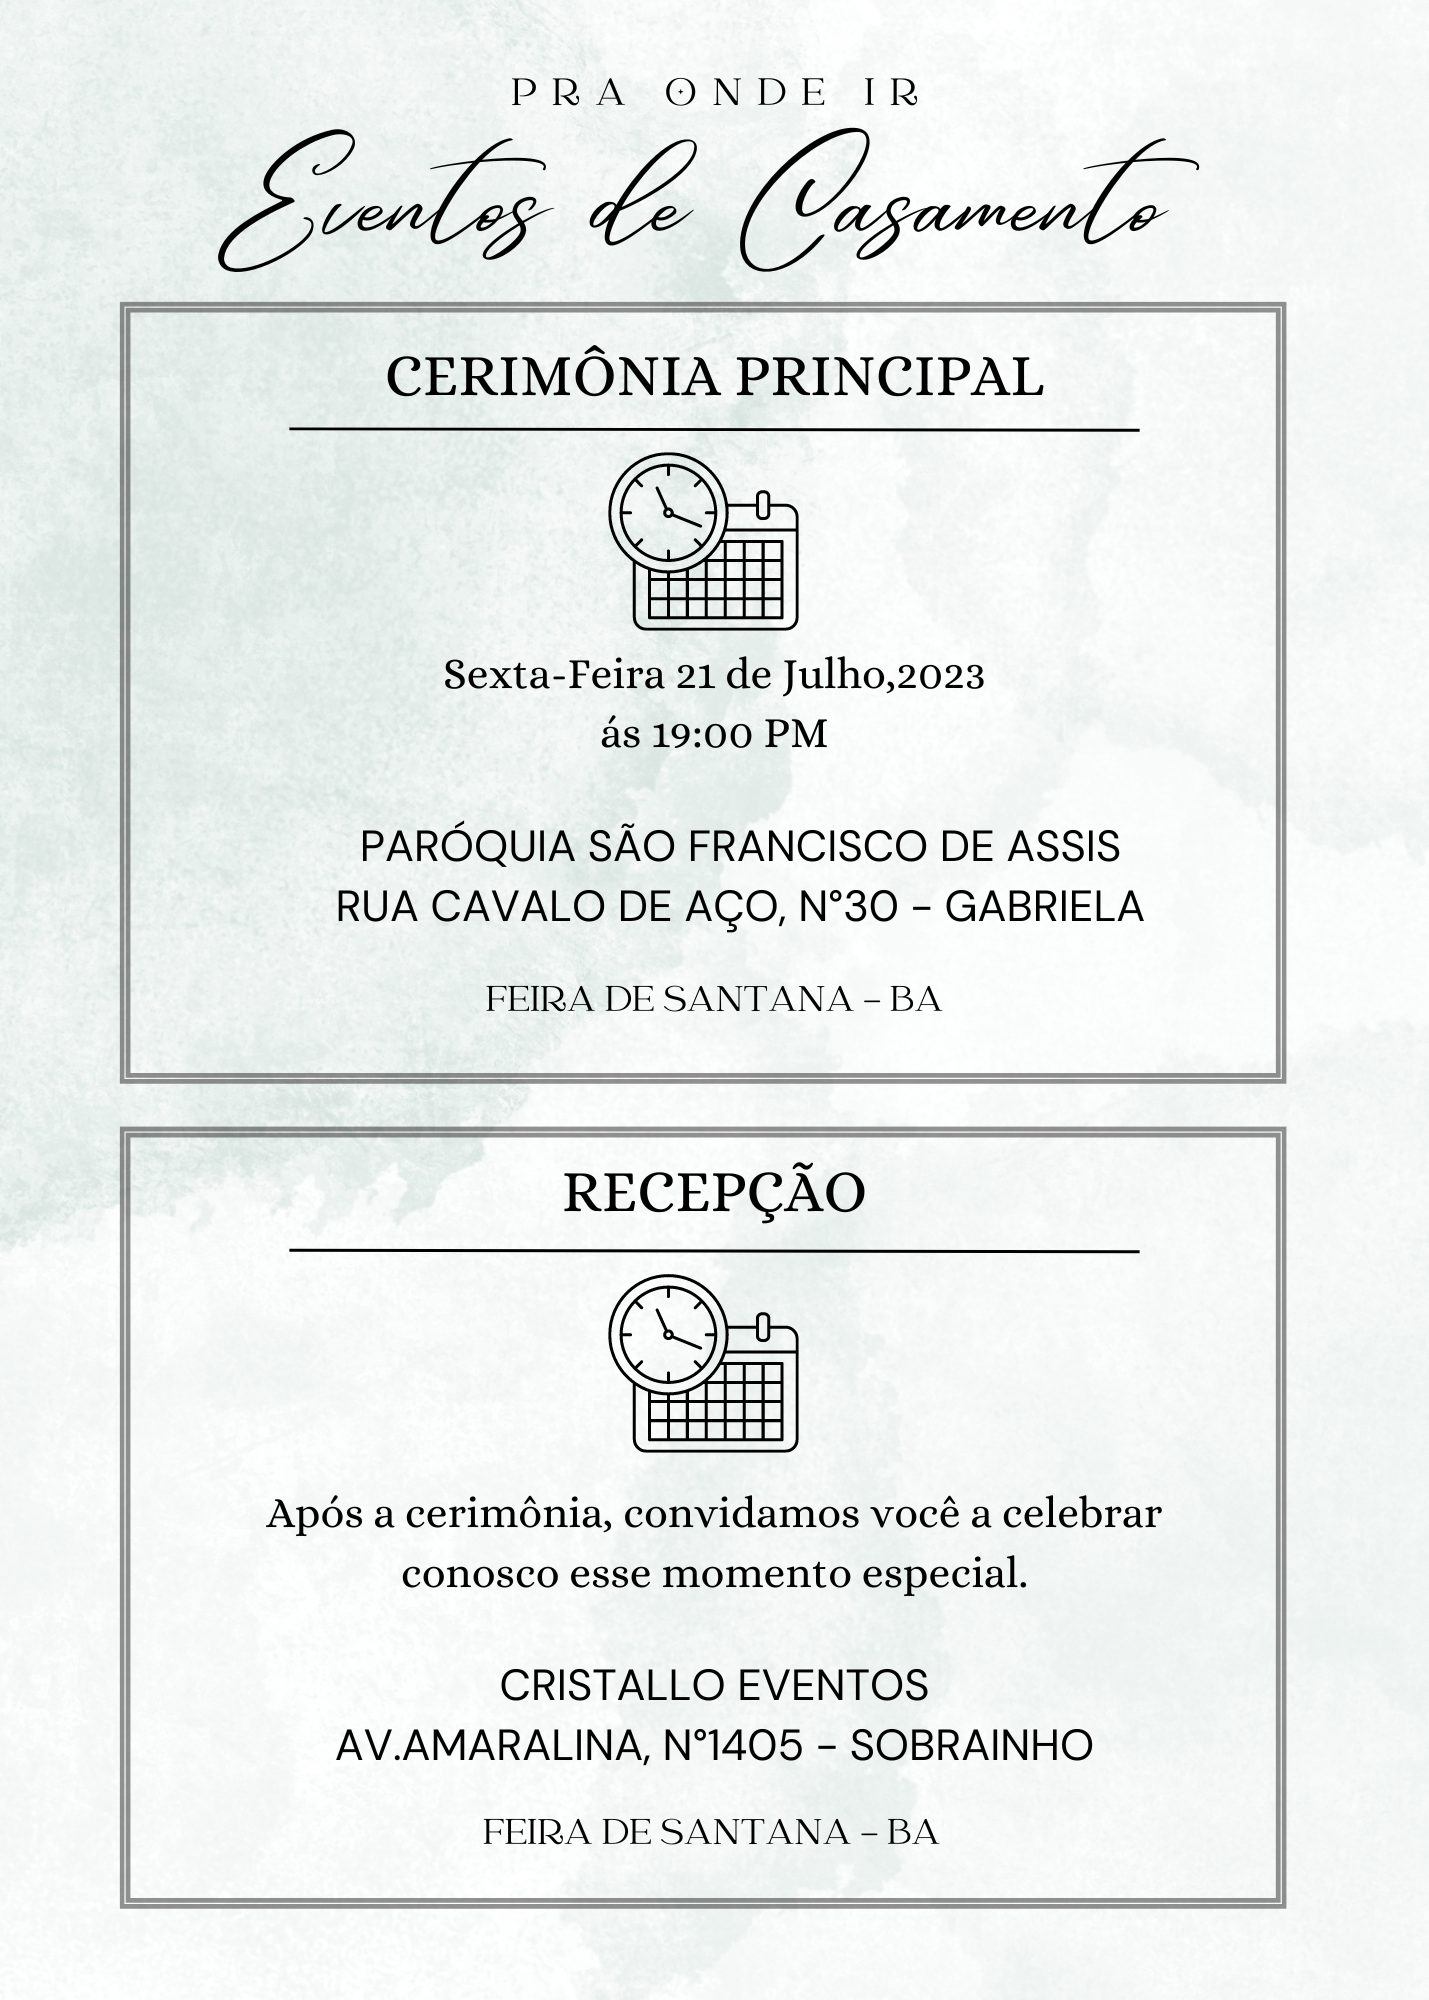
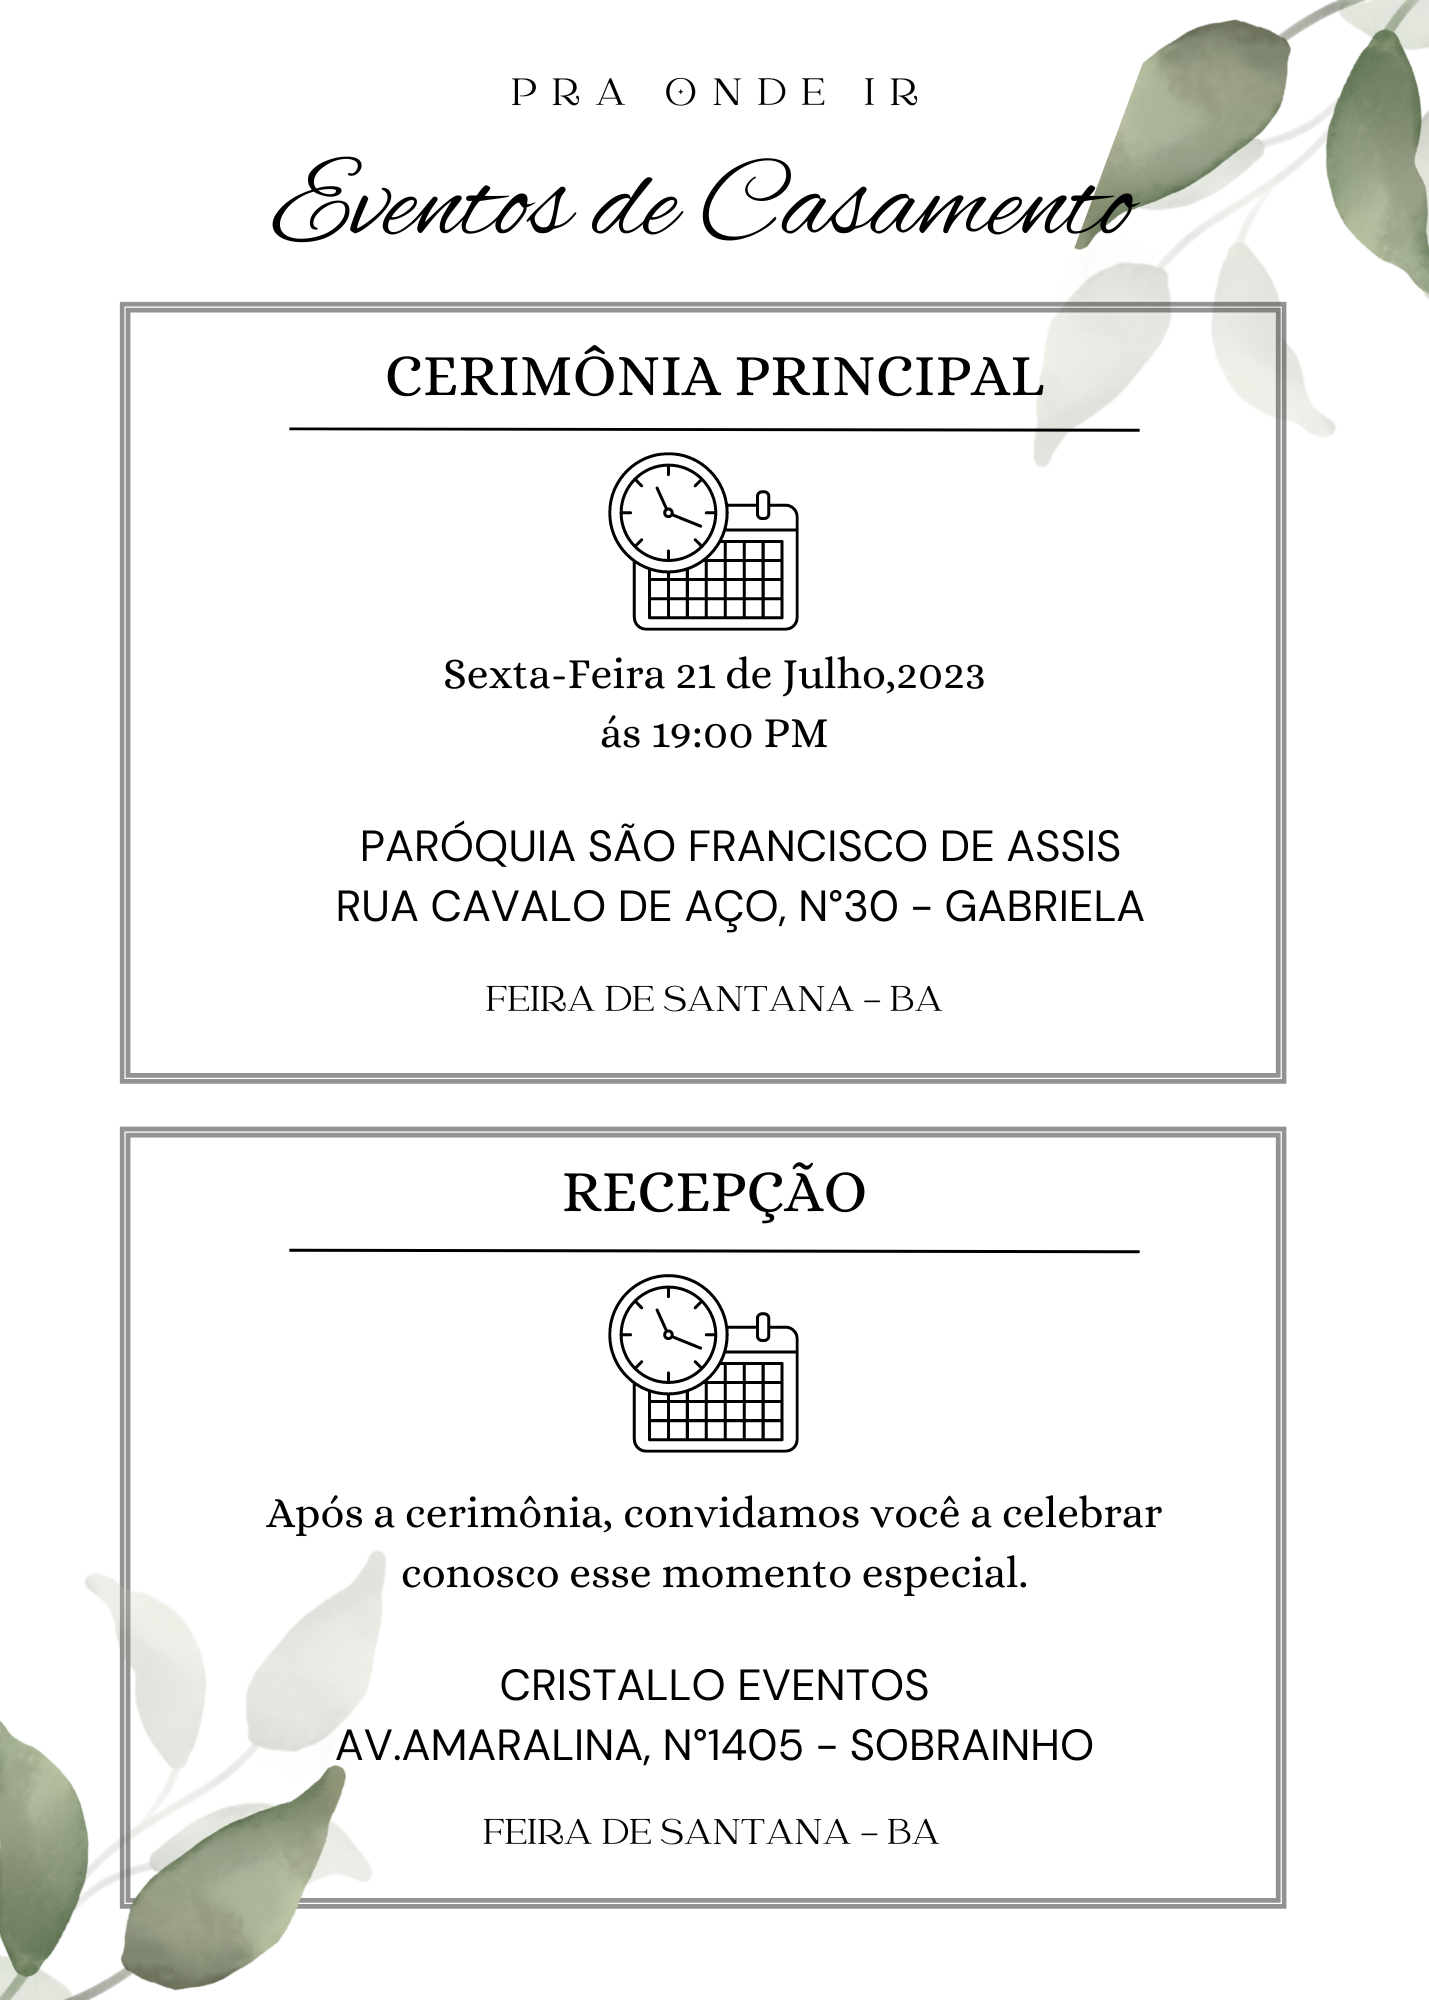
versao 15

diff --git a/index.html b/index.html
@@ -95,7 +95,7 @@
 		</div>
 	</nav>
 
-	<header id="fh5co-header" class="fh5co-cover" role="banner" style="background-image:url(images/banner2.jpg);" data-stellar-background-ratio="0.5">
+	<header id="fh5co-header" class="fh5co-cover" role="banner" style="background-image:url(images/bann.jpg);" data-stellar-background-ratio="0.5">
 		<div class="overlay"></div>
 		<div class="container">
 			<div class="row">
@@ -115,7 +115,7 @@
 	</header>
 
 <div class="conatiner">
- <img style="width: 100%;" src="images/convite3.jpeg" alt="">
+ <img style="width: 100%;" src="images/convite3.PNG" alt="">
 </div>
 
 	<!-- <div id="fh5co-couple">
@@ -246,7 +246,7 @@
 				<div class="col-md-12 col-md-offset-0">
 					<ul class="timeline animate-box">
 						<li class="animate-box">
-							<div class="timeline-badge" style="background-image:url(images/couple-1.jpg);"></div>
+							<div class="timeline-badge" style="background-image:url(images/antes.jpg);"></div>
 							<div class="timeline-panel">
 								<div class="timeline-heading">
 									<h3 class="timeline-title">Primeiro nos conhecemos</h3>
@@ -258,19 +258,19 @@
 							</div>
 						</li>
 						<li class="timeline-inverted animate-box">
-							<div class="timeline-badge" style="background-image:url(images/couple-2.jpg);"></div>
+							<div class="timeline-badge" style="background-image:url(images/durante.jpg);"></div>
 							<div class="timeline-panel">
 								<div class="timeline-heading">
 									<h3 class="timeline-title">Primeiro "encontro"</h3>
 									<span class="date">Dia 2 de julho de 2017</span>
 								</div>
 								<div class="timeline-body">
-									<p>Um simples dia em que Manu foi buscar sua irmanzinha na escola e Wilton foi ao seu encontro, que acabou em um incrivel primeiro Beijo!, e que beijo viu ! </p>
+									<p>Um simples dia em que Manu foi buscar sua irmanzinha na escola e Wilton foi ao seu encontro, que acabou em um incrivel primeiro Beijo!</p>
 								</div>
 							</div>
 						</li>
 						<li class="animate-box">
-							<div class="timeline-badge" style="background-image:url(images/couple-3.jpg);"></div>
+							<div class="timeline-badge" style="background-image:url(images/banner2.jpg);"></div>
 							<div class="timeline-panel">
 								<div class="timeline-heading">
 									<h3 class="timeline-title">Relacionamento</h3>
@@ -553,7 +553,7 @@
 		<div class="container">
 			<div class="row animate-box">
 				<div class="col-md-8 col-md-offset-2 text-center fh5co-heading">
-					<h2>Você confirma sua presença?</h2>
+					<h2>Lista de Presença</h2>
 					<p>Confirme se realmente vai participar conosco deste momento, é muito importante para nós! Obrigado!</p>
 				</div>
 			</div>
@@ -568,24 +568,30 @@
 						</div>
 						<div class="col-md-4 col-sm-4">
 							<div class="form-group">
-								<p style="color:white;">1- Você confirma sua presença?</p>
-								<label for="checkbox" style="color:white" class="sr-ony">Claro que sim!</label>
-								<input type="checkbox" class="form-contrl" name="eu vou" id="email" ><br>
-								<label for="checkbox" style="color:white" class="sr-ony">Não vou poder estar presente</label>
-								<input type="checkbox" class="form-contrl" name="Não vou" id="email" ><br>
-								<p style="color:white;">2- Quantos adultos são?</p> 
-								<label for="checkbox" style="color:white" class="sr-ony">1</label>
-								<input type="checkbox" class="form-contrl" name="1 adulto" id="email"><label for="checkbox" style="color:white" class="sr-ony">2</label>
-								<input type="checkbox" class="form-contrl" name="2 adultos" id="email"><label for="checkbox" style="color:white" class="sr-ony">3</label>
-								<input type="checkbox" class="form-contrl" name="3 adultos" id="email"><label for="checkbox" style="color:white;" class="sr-ony">4</label>
-								<input type="checkbox" class="form-contrl" name="4 adultos" id="email">
-								<p style="color:white;">3- Quantas crianças são?(até 12 anos)</p>
-								<label for="checkbox" style="color:white" class="sr-ony">1</label>
-								<input type="checkbox" class="form-contrl" name="1 criança" id="email"><label for="checkbox" style="color:white" class="sr-ony">2</label>
-								<input type="checkbox" class="form-contrl" name="2 crianças" id="email"><label for="checkbox" style="color:white" class="sr-ony">3</label>
-								<input type="checkbox" class="form-contrl" name="3 crianças" id="email"><label for="checkbox" style="color:white;" class="sr-ony">4</label>
-								<input type="checkbox" class="form-contrl" name="4 crianças" id="email">
-								<p style="color:white;">4- confirme para nós o nome e sobrenome dos convidados</p>
+								<p style="color:white; text-transform: uppercase;">1- Você confirma sua presença?</p>
+								<select style="border-radius: 50px;" name="" id="">
+									<option value="">..</option>
+									<option name="vou">claro que sim</option>
+									<option name="nao vou">Não vou poder estar presente</option>
+								</select>
+							
+								<p style="color:white; text-transform: uppercase;">2- Quantos adultos?</p> 
+								<select style="border-radius: 5px;" name="" id="">
+									<option name="nenhum adulto">..</option>
+									<option name="1 adulto">1</option>
+									<option name="2 adulto">2</option>
+									<option name="3 adulto">3</option>
+									<option name="4 adulto">4</option>
+								</select>
+								<p style="color:white; text-transform: uppercase;">3- Quantas crianças?(até 12 anos)</p>
+								<select style="border-radius: 5px;" name="" id="">
+									<option name="nenhuma criança">..</option>
+									<option name="1 criança">1</option>
+									<option name="2 criança">2</option>
+									<option name="3 criança">3</option>
+									<option name="4 criança">4</option>
+								</select>
+								<p style="color:white; text-transform: uppercase;">4- confirme para nós o nome e sobrenome dos convidados</p>
 								<input type="text" class="form-control" name="nome dos convidados" placeholder="Digite aqui">
 
 							</div>

diff --git a/lista-presente.html b/lista-presente.html
@@ -55,7 +55,9 @@
                     <input type="checkbox" name="Sanduicheira" id=""> Sanduicheira <br>
                     <input type="checkbox" name="Multiprocessador" id=""> Multiprocessador <br>
                     <input type="checkbox" name="Pipoqueira" id=""> Pipoqueira <br>
-                    <input type="checkbox" name="Kit Mundial" id=""> Kit Mundial Batedeira, liquidificador e espremedor <br>
+                    <input type="checkbox" name="Liquidificador" id=""> Liquidificador Mondial Turbo Power <br>
+                    <input type="checkbox" name="Batedeira" id=""> Batedeira Mondial Black <br>
+                    <input type="checkbox" name="Expremedor de Laranja" id=""> Expremedor de Laranja Mondial <br>
                     <input type="checkbox" name="Pipoqueira" id=""> Pipoqueira <br>
                     <input type="checkbox" name="Máquina de lavar" id=""> Máquina de lavar <br><br>
                     <h1 style="position: absolute;">Cozinha:</h1> <br><br>
@@ -126,7 +128,7 @@
                 </div>
                 <div class="btn">
                     <input id="bot" class="but" type="submit" value="Enviar" name="acao">
-                </div>
+                </div> <br><br><br>
             </form>
            </div>
     </body>

diff --git a/css/style.css b/css/style.css
@@ -322,7 +322,7 @@ h1, h2, h3, h4, h5, h6, figure {
   top: 0;
   left: 0;
   right: 0;
-  background: rgba(0, 0, 0, 0.5);
+  background: rgba(175, 165, 165, 0.39);
 }
 .fh5co-cover > .fh5co-container {
   position: relative;
@@ -850,6 +850,7 @@ form label {
   margin: 0;
   padding: 0;
   color: white;
+  font-weight: bold;
 }
 #fh5co-header .display-tc h1,
 #fh5co-counter .display-tc h1,
@@ -871,7 +872,7 @@ form label {
   #fh5co-counter .display-tc h1,
   .fh5co-cover .display-tc h1 {
     font-size: 25px;
-    margin-top: 225px;
+    margin-top: 200px;
     line-height: 4.5;
   }
 }
@@ -959,7 +960,7 @@ form label {
   display: inline-block;
   width: 70px;
   height: 70px;
-  background: rgba(1, 5, 0, 0.5);
+  background: rgba(31, 102, 14, 0.507);
   margin: 0 4px;
   -webkit-border-radius: 50%;
   -moz-border-radius: 50%;
